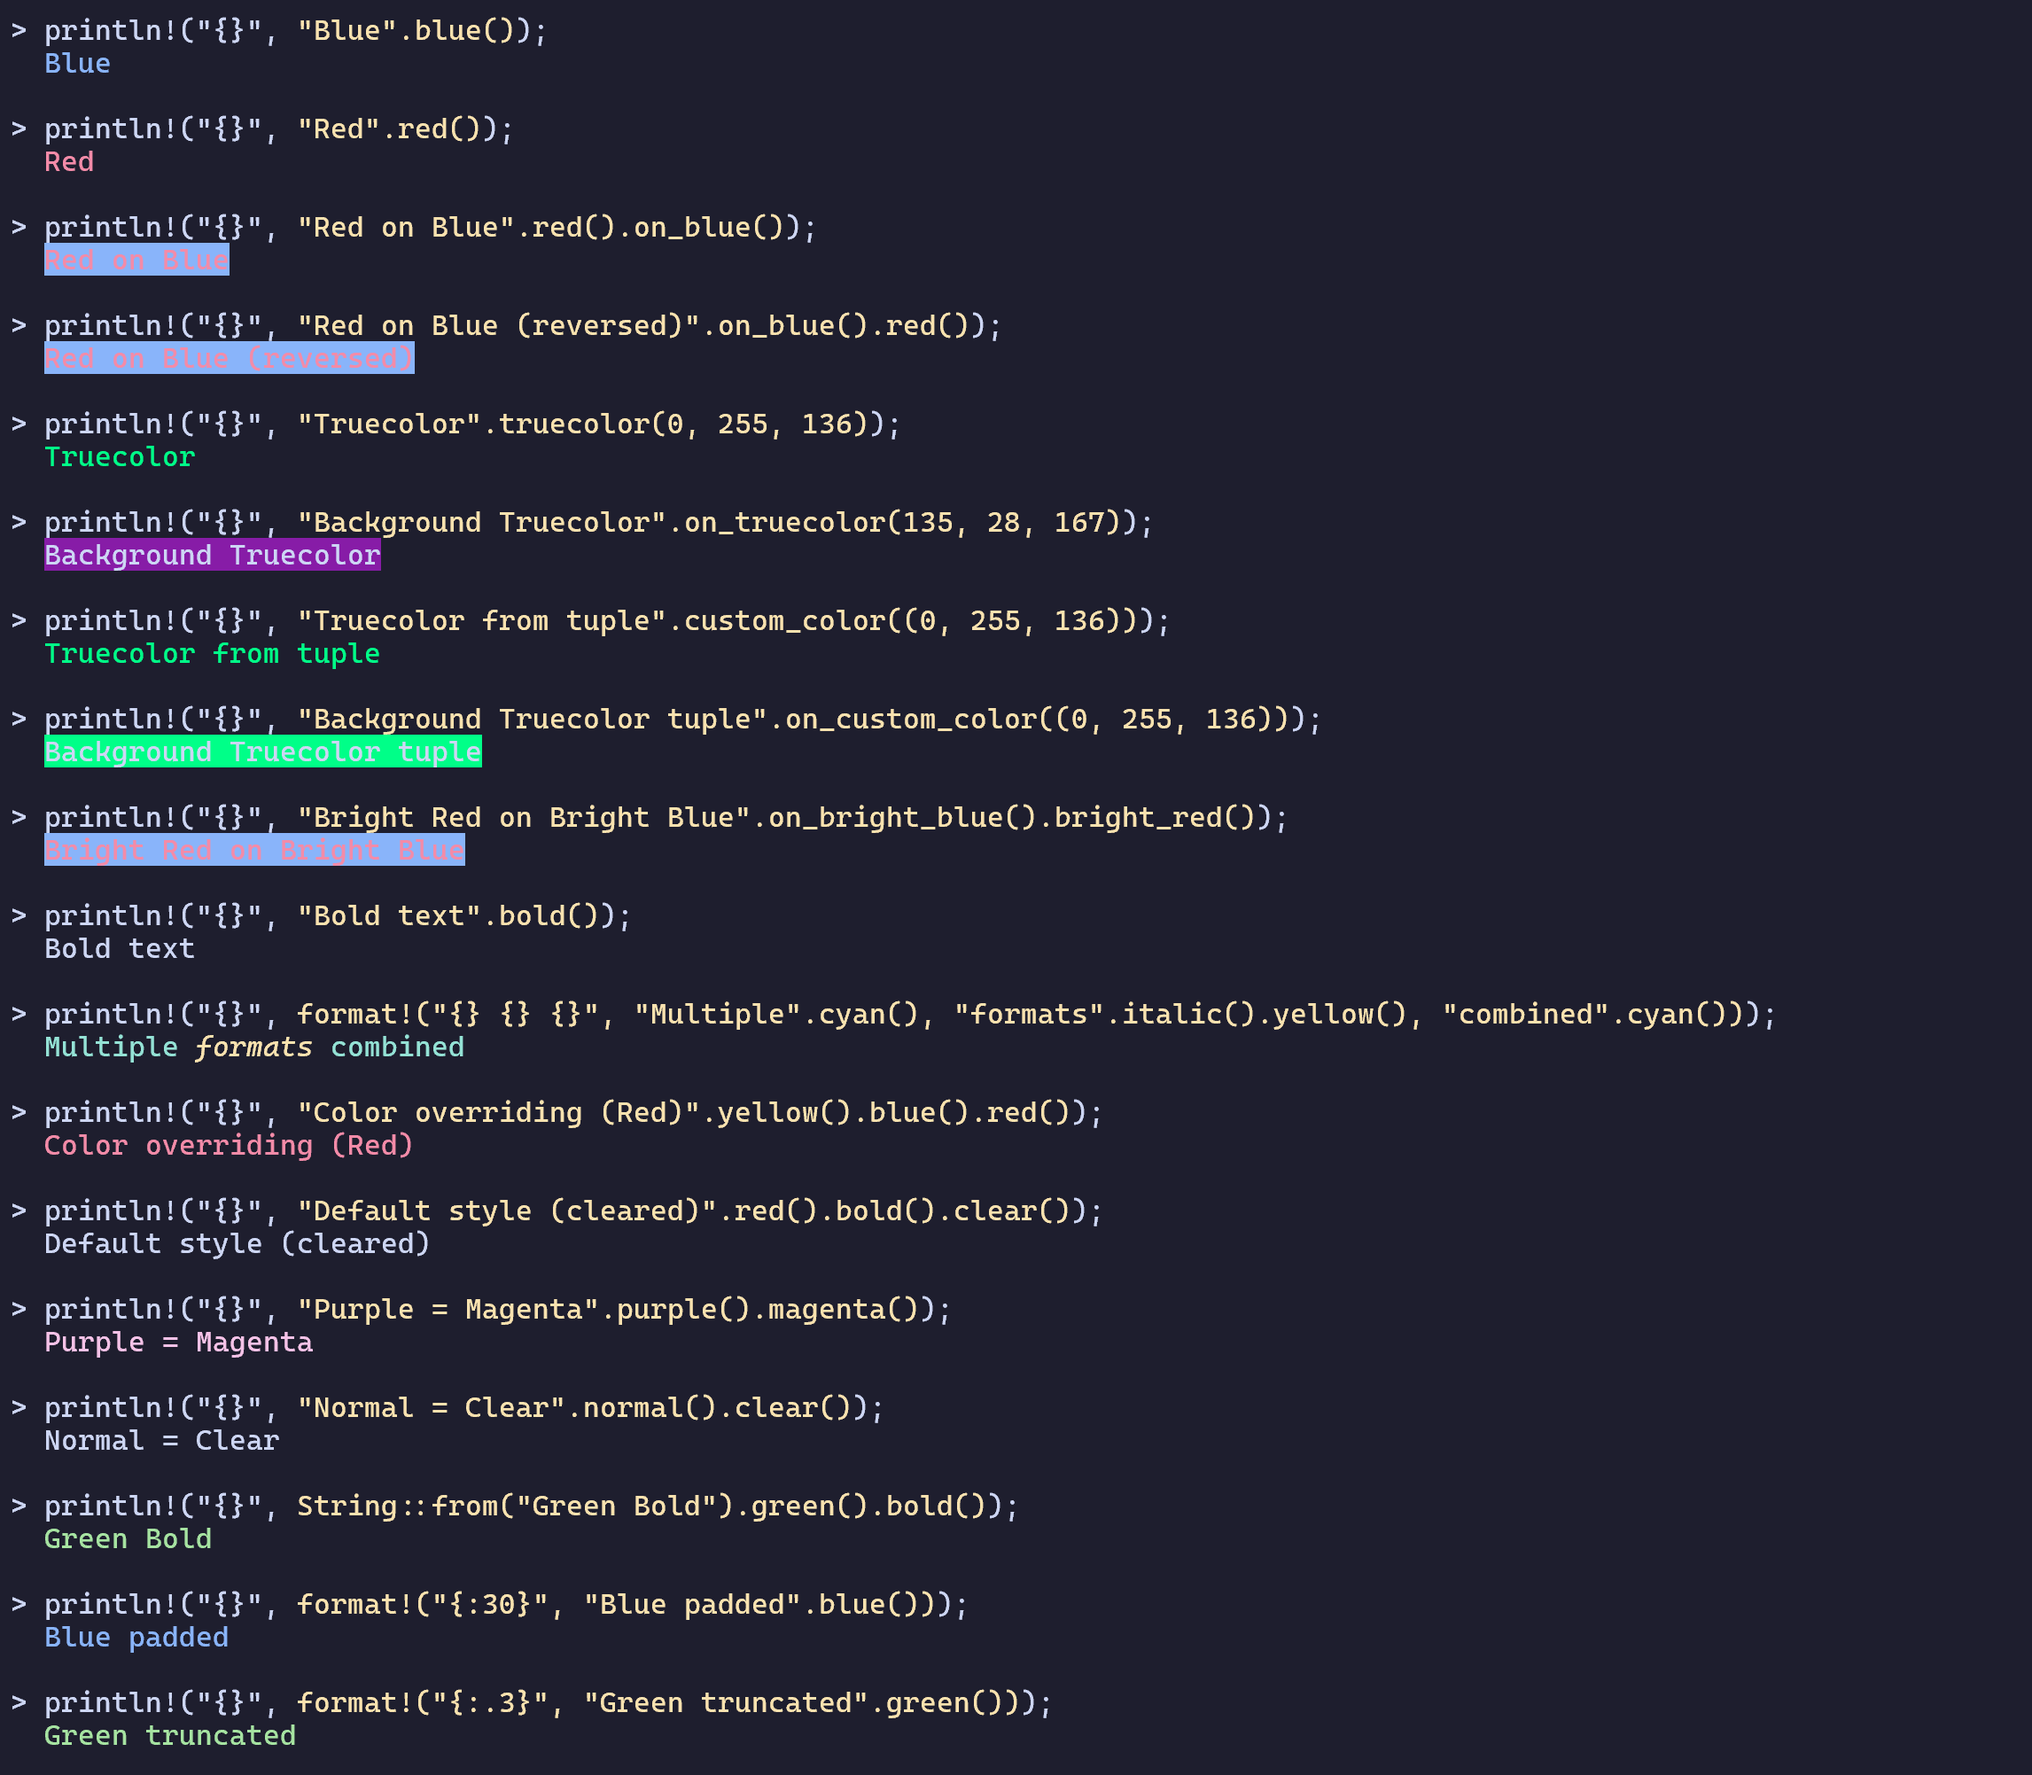
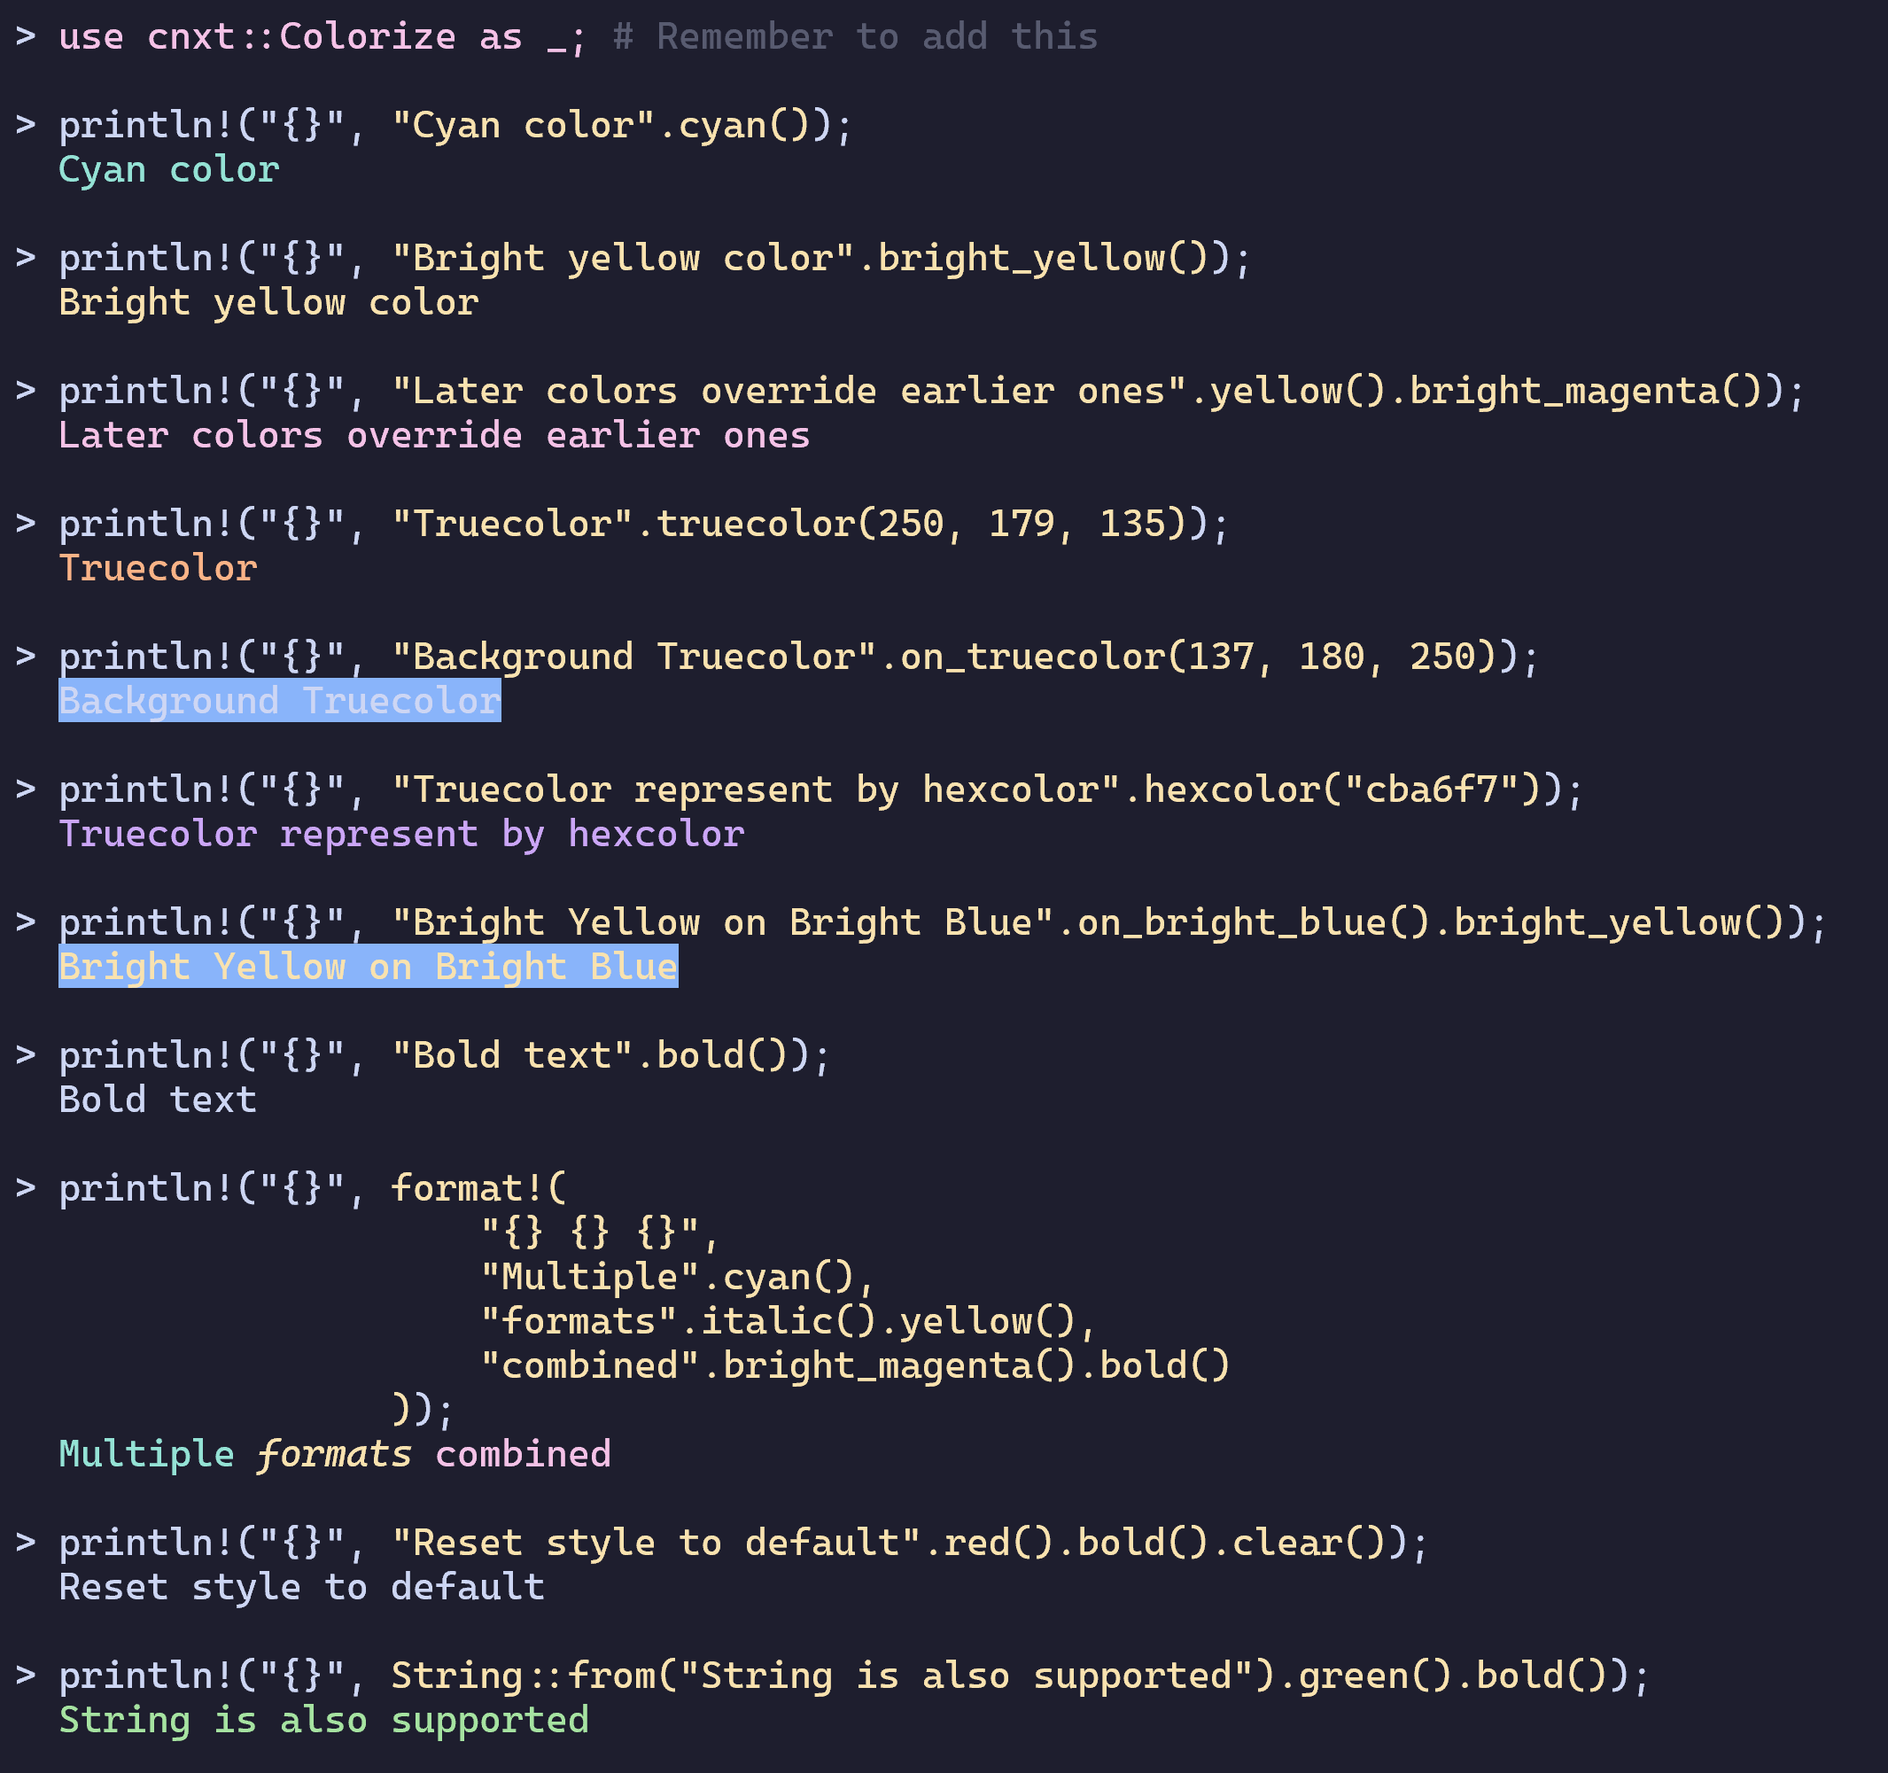
Add hex support

diff --git a/examples/usage.rs b/examples/usage.rs
@@ -1,4 +1,4 @@
-use cnxt::Colorize as _;
+use cnxt::Colorize;
 
 fn main() {
     #[cfg(windows)]
@@ -12,45 +12,53 @@ fn main() {
             r#");"#
         );
     };
+    println!("\n> {}{}", r#"use cnxt::Colorize as _;"#.bright_magenta()," # Remember to add this".bright_black());
 
-    print_src(r#""Blue".blue()"#);
-    println!("  {}", "Blue".blue());
+    print_src(r#""Cyan color".cyan()"#);
+    println!("  {}", "Cyan color".cyan());
 
-    print_src(r#""Red".red()"#);
-    println!("  {}", "Red".red());
+    print_src(r#""Bright yellow color".bright_yellow()"#);
+    println!("  {}", "Bright yellow color".bright_yellow());
 
-    print_src(r#""Red on Blue".red().on_blue()"#);
-    println!("  {}", "Red on Blue".red().on_blue());
-
-    print_src(r#""Red on Blue (reversed)".on_blue().red()"#);
-    println!("  {}", "Red on Blue (reversed)".on_blue().red());
-
-    print_src(r#""Truecolor".truecolor(0, 255, 136)"#);
-    println!("  {}", "Truecolor".truecolor(0, 255, 136));
-
-    print_src(r#""Background Truecolor".on_truecolor(135, 28, 167)"#);
-    println!("  {}", "Background Truecolor".on_truecolor(135, 28, 167));
-
-    print_src(r#""Truecolor from tuple".custom_color((0, 255, 136))"#);
-    println!("  {}", "Truecolor from tuple".custom_color((0, 255, 136)));
-
-    print_src(r#""Background Truecolor tuple".on_custom_color((0, 255, 136))"#);
+    print_src(
+        r#""Later colors override earlier ones".yellow().bright_magenta()"#,
+    );
     println!(
         "  {}",
-        "Background Truecolor tuple".on_custom_color((0, 255, 136))
+        "Later colors override earlier ones"
+            .yellow()
+            .bright_magenta()
     );
 
-    print_src(r#""Bright Red on Bright Blue".on_bright_blue().bright_red()"#);
+    print_src(r#""Truecolor".truecolor(250, 179, 135)"#);
+    println!("  {}", "Truecolor".truecolor(250, 179, 135));
+
+    print_src(r#""Background Truecolor".on_truecolor(137, 180, 250)"#);
+    println!("  {}", "Background Truecolor".on_truecolor(137, 180, 250));
+
+    print_src(r#""Truecolor represent by hexcolor".hexcolor("cba6f7")"#);
+    println!("  {}", "Truecolor represent by hexcolor".hexcolor("cba6f7"));
+
+    print_src(
+        r#""Bright Yellow on Bright Blue".on_bright_blue().bright_yellow()"#,
+    );
     println!(
         "  {}",
-        "Bright Red on Bright Blue".on_bright_blue().bright_red()
+        "Bright Yellow on Bright Blue"
+            .on_bright_blue()
+            .bright_yellow()
     );
 
     print_src(r#""Bold text".bold()"#);
     println!("  {}", "Bold text".bold());
 
     print_src(
-        r#"format!("{} {} {}", "Multiple".cyan(), "formats".italic().yellow(), "combined".cyan())"#,
+        r#"format!(
+                     "{} {} {}",
+                     "Multiple".cyan(),
+                     "formats".italic().yellow(),
+                     "combined".bright_magenta().bold()
+                 )"#,
     );
     println!(
         "  {}",
@@ -58,28 +66,16 @@ fn main() {
             "{} {} {}",
             "Multiple".cyan(),
             "formats".italic().yellow(),
-            "combined".cyan()
+            "combined".bright_magenta().bold()
         )
     );
 
-    print_src(r#""Color overriding (Red)".yellow().blue().red()"#);
-    println!("  {}", "Color overriding (Red)".yellow().blue().red());
+    print_src(r#""Reset style to default".red().bold().clear()"#);
+    println!("  {}", "Reset style to default".red().bold().clear());
 
-    print_src(r#""Default style (cleared)".red().bold().clear()"#);
-    println!("  {}", "Default style (cleared)".red().bold().clear());
-
-    print_src(r#""Purple = Magenta".purple().magenta()"#);
-    println!("  {}", "Purple = Magenta".purple().magenta());
-
-    print_src(r#""Normal = Clear".normal().clear()"#);
-    println!("  {}", "Normal = Clear".normal().clear());
-
-    print_src(r#"String::from("Green Bold").green().bold()"#);
-    println!("  {}", String::from("Green Bold").green().bold());
-
-    print_src(r#"format!("{:30}", "Blue padded".blue())"#);
-    println!("  {}", format!("{:30}", "Blue padded".blue()));
-
-    print_src(r#"format!("{:.3}", "Green truncated".green())"#);
-    println!("  {}", format!("{:.3}", "Green truncated".green()));
+    print_src(r#"String::from("String is also supported").green().bold()"#);
+    println!(
+        "  {}",
+        String::from("String is also supported").green().bold()
+    );
 }

diff --git a/src/lib.rs b/src/lib.rs
@@ -285,6 +285,28 @@ pub trait Colorize {
     {
         self.color(Color::TrueColor { r, g, b })
     }
+    /// The following `#` prefix is optional.
+    ///
+    /// This function will **panic** if the hex string is invalid.
+    ///
+    /// Use [`Self::try_hexcolor`] for a non-panicking alternative.
+    fn hexcolor<S>(self, hex: S) -> ColoredString
+    where
+        Self: Sized,
+        S: AsRef<str>,
+    {
+        self.color(parse_hex(hex.as_ref()).unwrap())
+    }
+    /// The following `#` prefix is optional.
+    ///
+    /// This function will return `None` if the hex string is invalid
+    fn try_hexcolor<S>(self, hex: S) -> Option<ColoredString>
+    where
+        Self: Sized,
+        S: AsRef<str>,
+    {
+        parse_hex(hex.as_ref()).map(|color| self.color(color))
+    }
     fn custom_color<T>(self, color: T) -> ColoredString
     where
         Self: Sized,
@@ -419,6 +441,28 @@ pub trait Colorize {
         Self: Sized,
     {
         self.on_color(Color::TrueColor { r, g, b })
+    }
+    /// The following `#` prefix is optional.
+    ///
+    /// This function will **panic** if the hex string is invalid.
+    ///
+    /// Use [`Self::try_on_hexcolor`] for a non-panicking alternative.
+    fn on_hexcolor<S>(self, hex: S) -> ColoredString
+    where
+        Self: Sized,
+        S: AsRef<str>,
+    {
+        self.on_color(parse_hex(hex.as_ref()).unwrap())
+    }
+    /// The following `#` prefix is optional.
+    ///
+    /// This function will return `None` if the hex string is invalid
+    fn try_on_hexcolor<S>(self, hex: S) -> Option<ColoredString>
+    where
+        Self: Sized,
+        S: AsRef<str>,
+    {
+        parse_hex(hex.as_ref()).map(|color| self.on_color(color))
     }
     fn on_custom_color<T>(self, color: T) -> ColoredString
     where
@@ -705,5 +749,31 @@ impl fmt::Display for ColoredString {
         write!(f, "{}", escaped_input)?;
         f.write_str("\x1B[0m")?;
         Ok(())
+    }
+}
+
+fn parse_hex(s: &str) -> Option<Color> {
+    // Remove leading # if present
+    let s = s.strip_prefix('#').unwrap_or(s);
+
+    match s.len() {
+        6 => {
+            let r = u8::from_str_radix(&s[0..2], 16).ok()?;
+            let g = u8::from_str_radix(&s[2..4], 16).ok()?;
+            let b = u8::from_str_radix(&s[4..6], 16).ok()?;
+            Some(Color::TrueColor { r, g, b })
+        }
+        3 => {
+            // Convert hex shorthand (e.g. "f09") to full form by duplicating each digit
+            let r = u8::from_str_radix(&s[0..1], 16).ok()?;
+            let g = u8::from_str_radix(&s[1..2], 16).ok()?;
+            let b = u8::from_str_radix(&s[2..3], 16).ok()?;
+            Some(Color::TrueColor {
+                r: r * 17, // Same as (r << 4) | r but more readable
+                g: g * 17,
+                b: b * 17,
+            })
+        }
+        _ => None,
     }
 }
